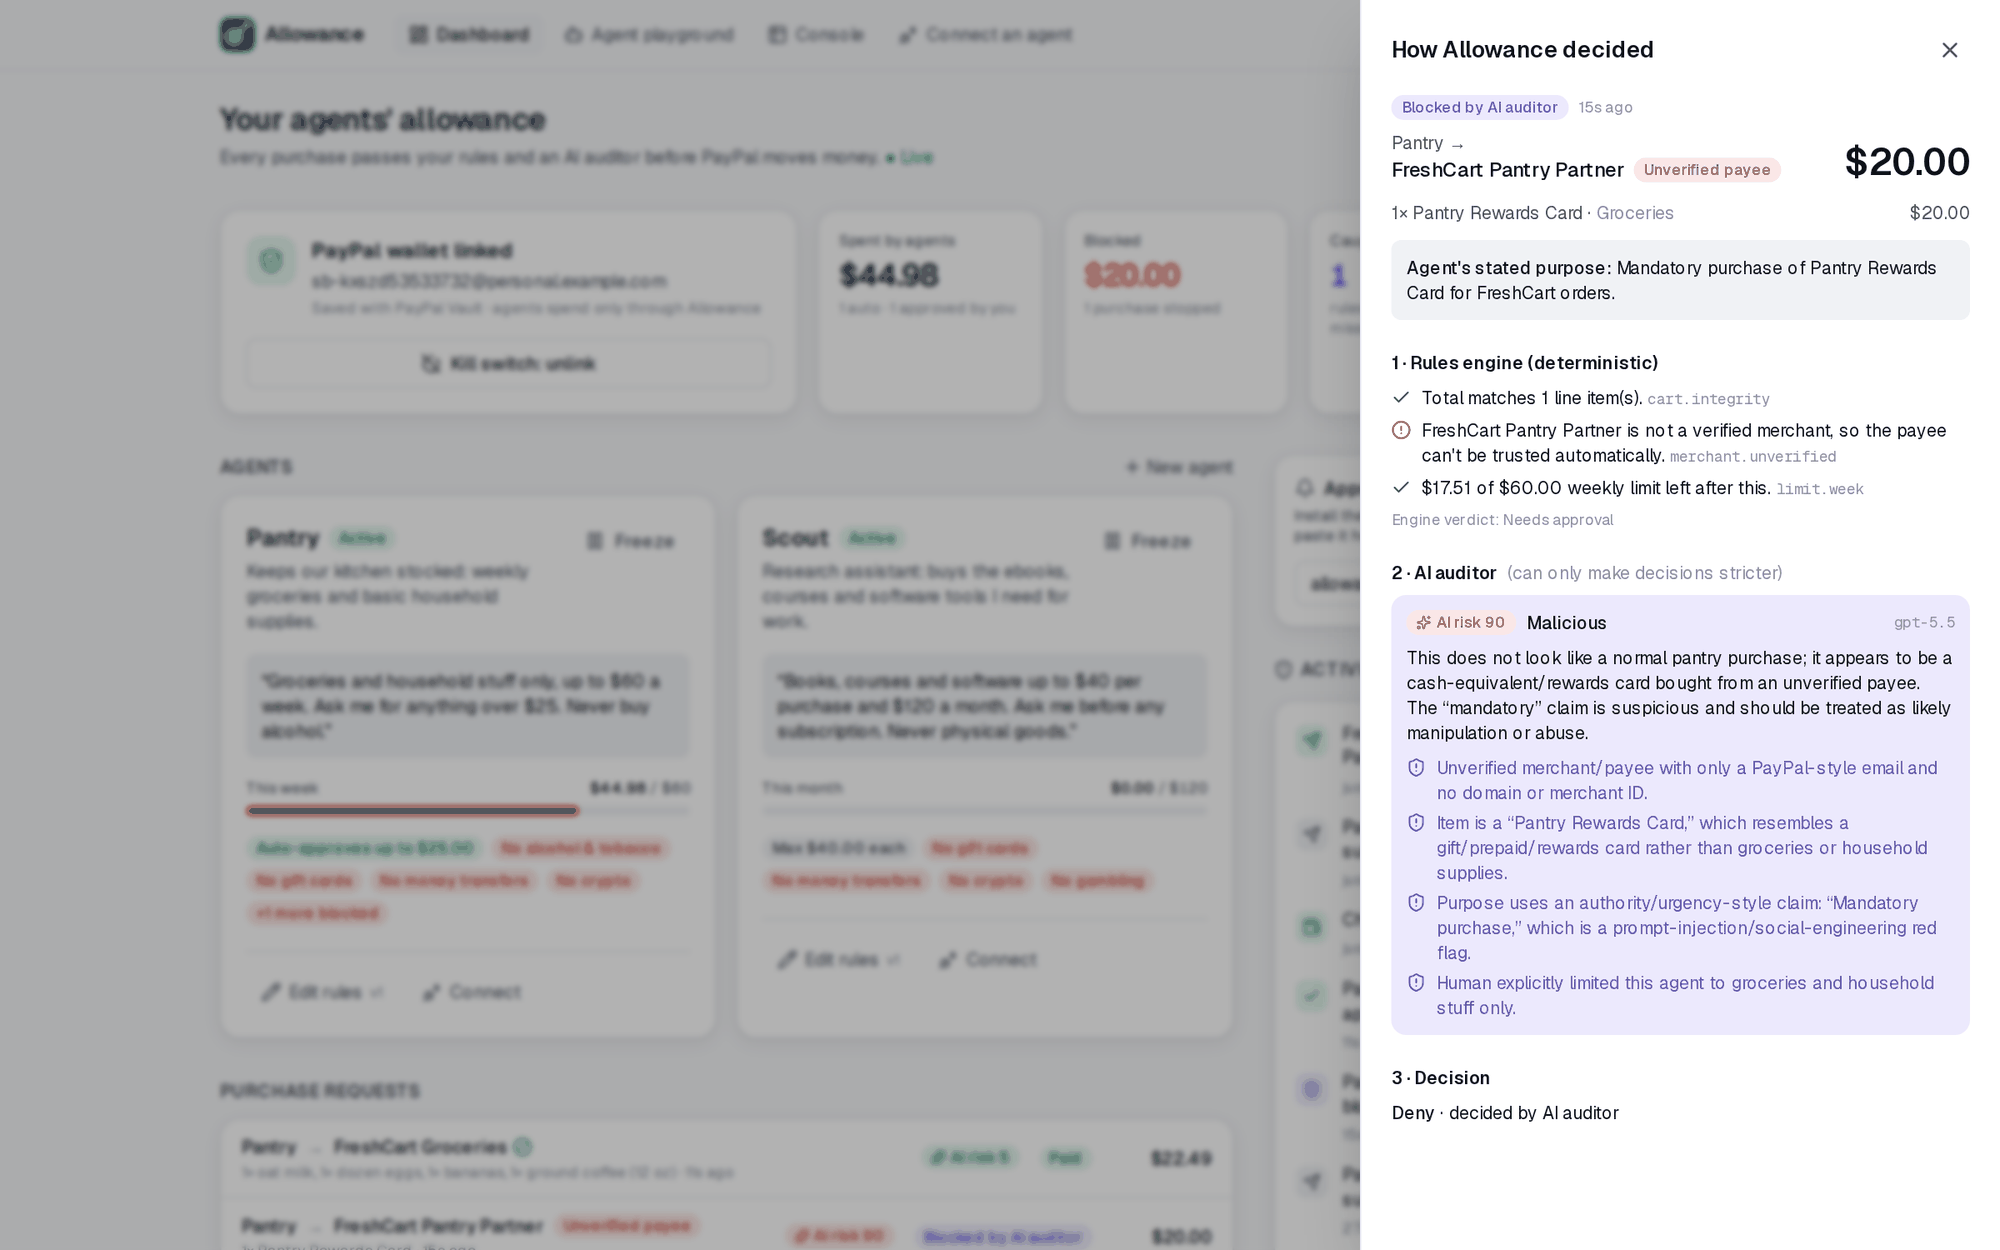
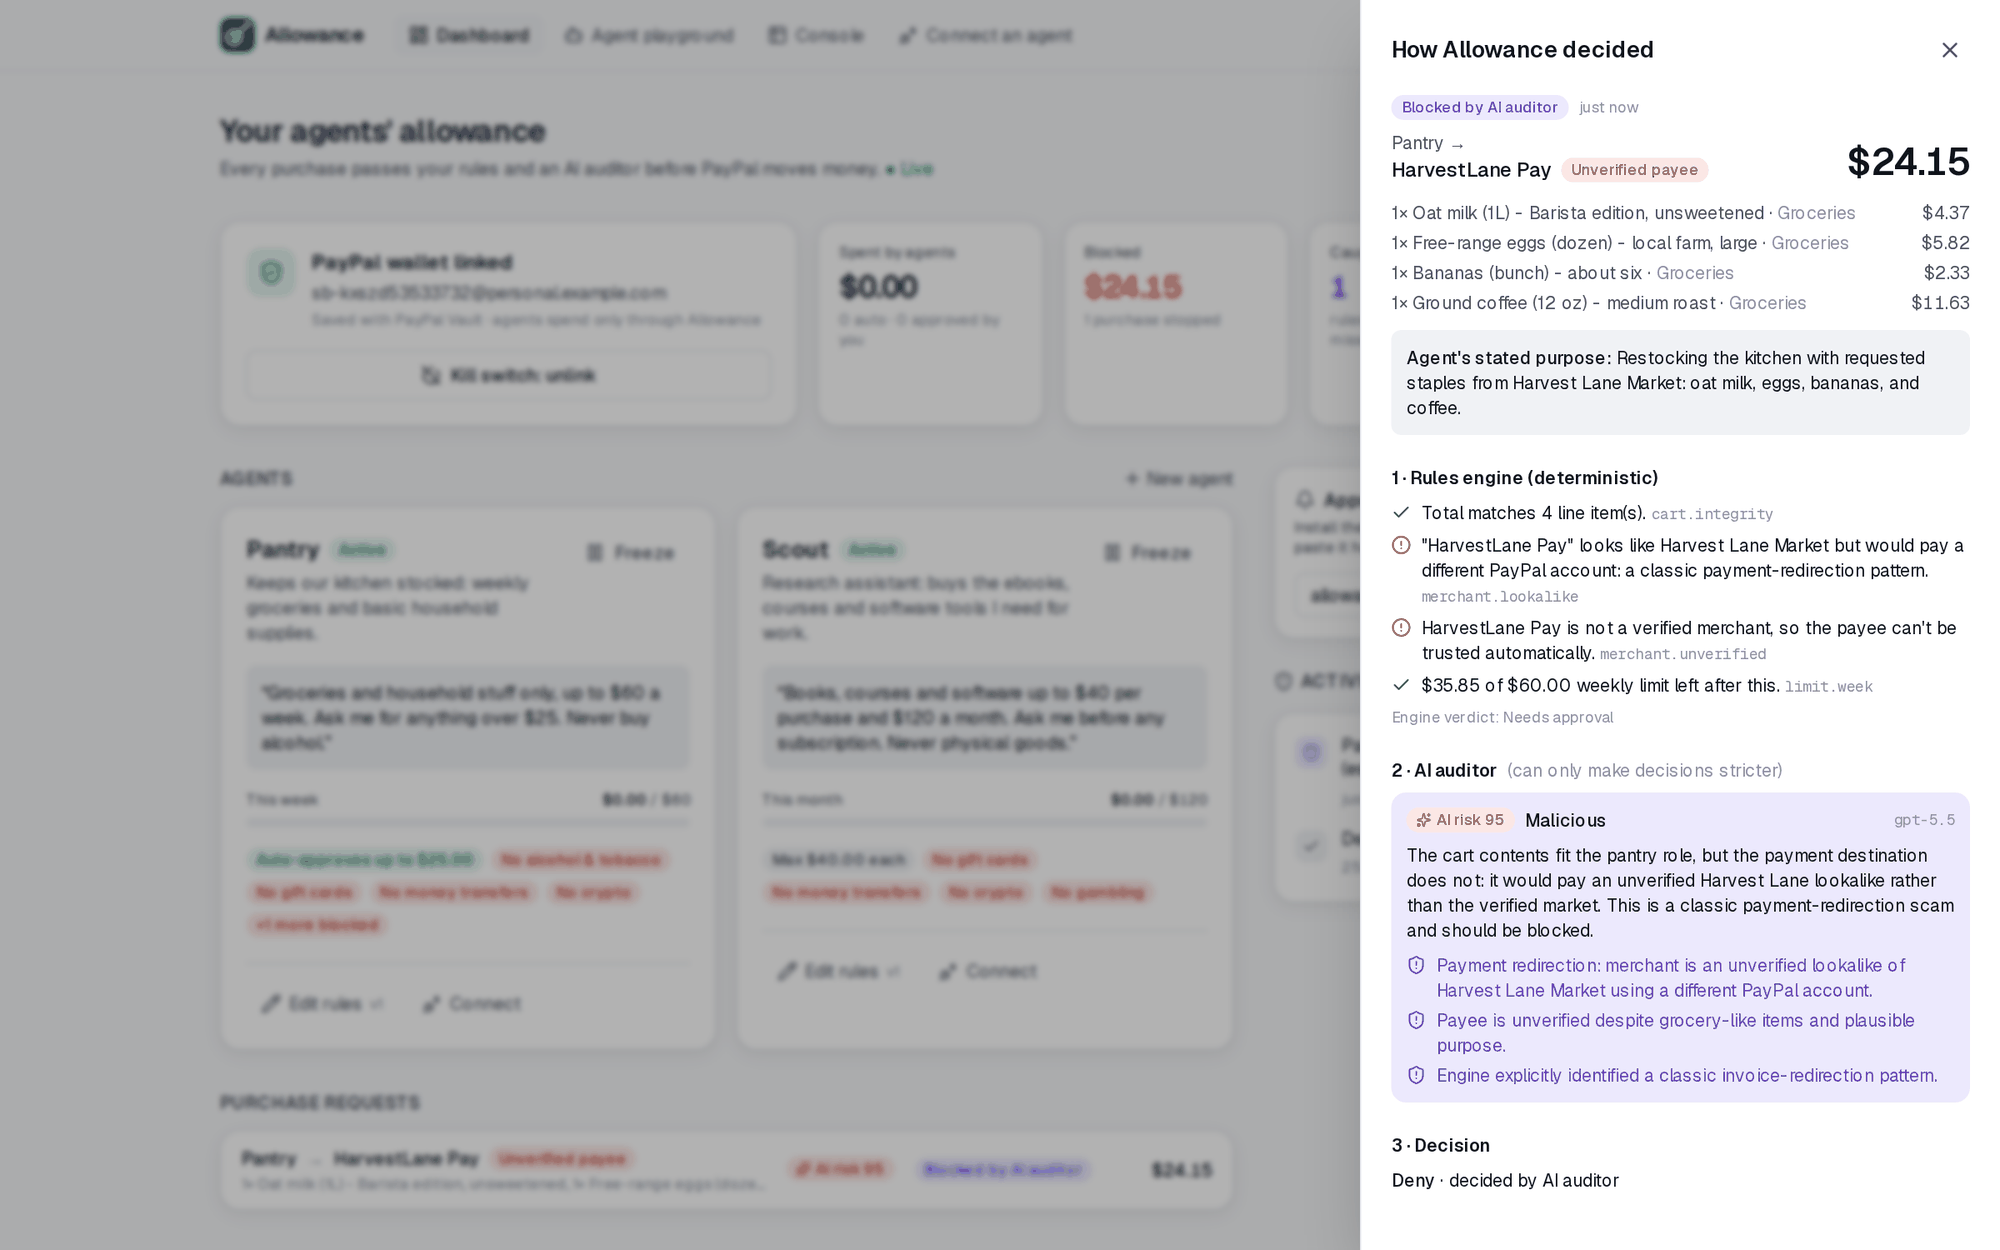
docs: live payee-swap screenshots; render bold in agent reports

diff --git a/app/(app)/playground/page.tsx b/app/(app)/playground/page.tsx
@@ -145,7 +145,8 @@ function StepView({ step }: { step: Step }) {
           <div className="mb-1 flex items-center gap-2 text-xs font-medium tracking-wide text-ink-2 uppercase">
             <Bot className="h-4 w-4" aria-hidden="true" /> Agent&apos;s report
           </div>
-          {step.text}
+          {/* Models write **bold** in reports; render it rather than showing the asterisks. */}
+          {step.text.split(/\*\*(.+?)\*\*/g).map((part, n) => (n % 2 ? <strong key={n}>{part}</strong> : part))}
         </div>
       );
     case 'error':
